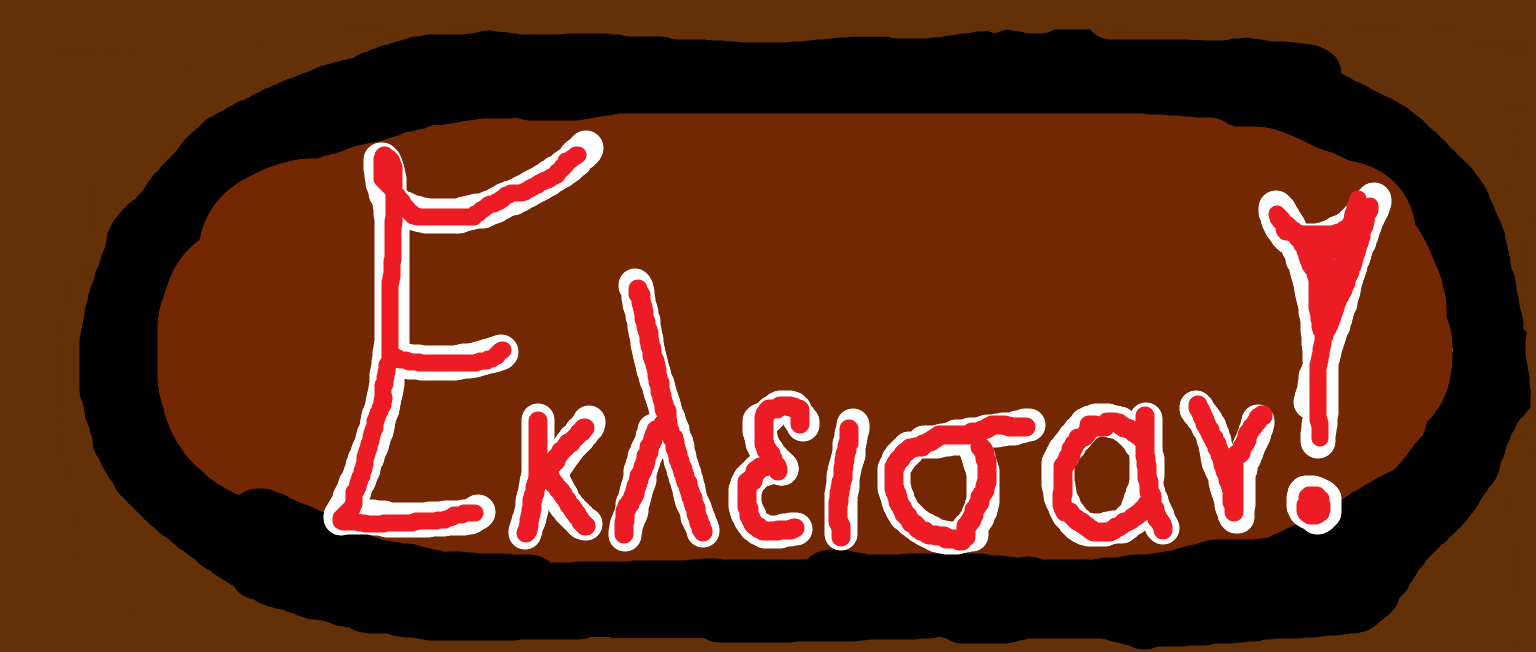
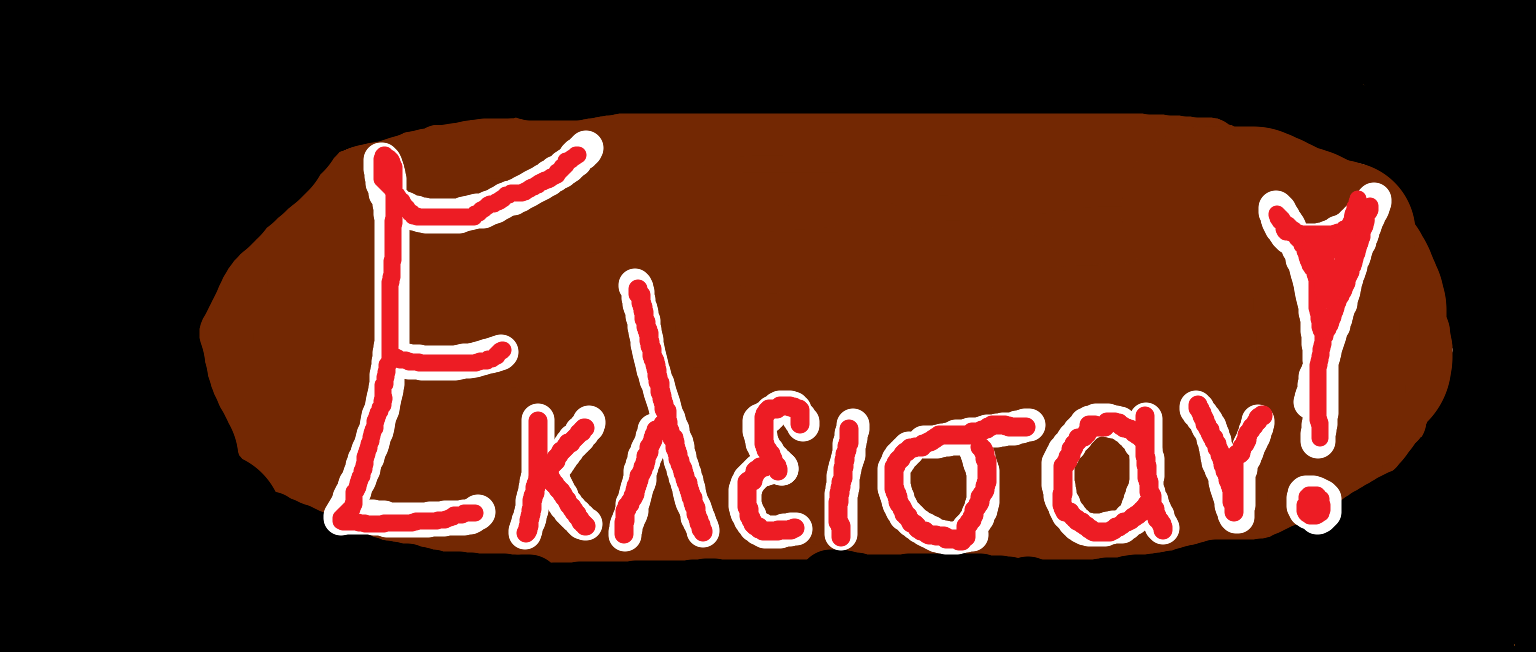
Add files via upload

Changed region(s): [[0.0, 0.0, 1.0, 1.0]]

diff --git a/index.html b/index.html
@@ -86,14 +86,14 @@
 .players{font-family:var(--display);font-weight:700;font-size:27px;text-align:center;
   color:var(--bone);margin:14px 0 2px;
   text-shadow:-2px -2px 0 #000,2px -2px 0 #000,-2px 2px 0 #000,2px 2px 0 #000}
-  .plist2{display:flex;flex-direction:column;gap:6px;margin-top:10px}
-.prow2{display:flex;justify-content:space-between;align-items:center;
-  padding:9px 14px;background:var(--ink);border:4px solid var(--line);border-radius:14px}
-.prow2 span{font-family:var(--display);font-size:19px}
-.prow2 em{font-family:var(--mono);font-size:12px;font-style:normal;color:var(--brass)}
 
 /* επιλεγμένο / ανεπίλεκτο κουμπί-ζωγραφιά */
 .ibtn.dim{opacity:.42}
+
+/* δύο ζωγραφιστά κουμπιά δίπλα-δίπλα, στο ΙΔΙΟ ύψος
+   (οι ζωγραφιές έχουν διαφορετικές αναλογίες, οπότε κλειδώνουμε το ύψος) */
+.row.even{align-items:center;gap:14px}
+.row.even .ibtn img{height:92px;width:auto;margin:0 auto}
 
 /* ζωγραφιστά πλαίσια κειμένου */
 .field{position:relative;margin-top:6px}
@@ -253,8 +253,11 @@ details.notes textarea{min-height:92px;border-style:dashed;background:rgba(199,1
 /* οθόνη «κλείστε τα μάτια» */
 .dark{background:#000;position:fixed;inset:0;display:flex;flex-direction:column;
   align-items:center;justify-content:center;padding:30px;text-align:center;z-index:9}
-.dark p{font-family:var(--display);font-size:30px;color:#5A4632;margin:0 0 36px;line-height:1.3}
+.dark p{font-family:var(--display);font-weight:700;font-size:32px;color:var(--bone);
+  text-shadow:-2px -2px 0 #000,2px -2px 0 #000,-2px 2px 0 #000,2px 2px 0 #000;
+  margin:0 0 34px;line-height:1.25}
 .dark .btn{max-width:280px}
+.dark .ibtn{max-width:250px;margin:0 auto}
 </style>
 
 <div id="app"></div>
@@ -269,7 +272,7 @@ const CFG = {
   MAX_PLAYERS: 15,
   DEFAULT_PLAYERS: 5,
   DEFAULT_PENALTY: "ποινη",
-  TIME_OPTIONS: [120, 180, 240],   // χρονος λογου, σε δευτερολεπτα
+  TIME_OPTIONS: [120, 180, 300],   // χρονος λογου, σε δευτερολεπτα
   DEFAULT_TIME: 120,
   UNLOCK_2V2: 5,                   // από πόσους παίκτες ξεκλειδώνει το 2v2
   UNLOCK_3V3: 7,                   // από πόσους παίκτες ξεκλειδώνει το 3v3
@@ -282,7 +285,7 @@ const CFG = {
 const IMG = "img/";
 const DIGIT = ["zero","one","two","three","four","five","six","seven","eight","nine"];
 /* ζωγραφιές για τον χρόνο λόγου· όποιο λείπει βγαίνει ως κείμενο */
-const TIME_IMG = { 120:"2lepta.png", 180:"3lepta.png" };
+const TIME_IMG = { 120:"2lepta.png", 180:"3lepta.png", 300:"5lepta.png" };
 
 /* === [9] ΑΠΟΘΗΚΕΥΣΗ ========================================
    Δοκιμάζει localStorage. Αν δεν επιτρέπεται (π.χ. σε preview),
@@ -306,7 +309,6 @@ const Store = (() => {
 
 /* === [10] ΚΑΤΑΣΤΑΣΗ ΠΑΙΧΝΙΔΙΟΥ ============================= */
 const S = {
-  counts: [],        // πόσες έγραψε ο καθένας, χωρίς να ξέρουμε ποιες
   screen: "count",
   playerCount: CFG.DEFAULT_PLAYERS,
   players: [],       // γεμίζει καθώς συστήνονται, ένας ένας
@@ -412,7 +414,7 @@ V.count = () => {
     </div>
 
     <label>Τι πληρωνει ο χαμενος</label>
-        ${penaltyField()}
+    ${penaltyField()}
 
     <label>Χρονος λογου</label>
     <div class="row">${times}</div>
@@ -485,24 +487,16 @@ V.more = () => {
 };
 
 /* ΟΘΟΝΗ: όλοι συστήθηκαν ------------------------------------ */
-V.lastCall = () => {
-  const list = S.players.map((p,i) => `
-    <div class="prow2">
-      <span>${esc(p)}</span>
-      <em>${S.counts[i]} ${S.counts[i]===1?"αποψη":"αποψεις"}</em>
-    </div>`).join("");
-
-  return `
-    <p class="eyebrow">Η δικογραφια &middot; <b>${S.opinions.length} αποψεις</b></p>
-    <h2>Συστηθηκατε ολοι</h2>
-    <p class="lede">Θελει κανεις να προσθεσει κατι πριν ξεκινησουμε; Το κινητο γυρναει ελευθερα, μενει ανωνυμο.</p>
-    <div class="plist2">${list}</div>
-    <div class="fill"></div>
-    <div class="row">
-      ${ibtn("orthioi.png",'data-begin="1"')}
-      ${ibtn("allhmia.png",'data-extra="lastCall"')}
-    </div>`;
-};
+V.lastCall = () => `
+  <p class="eyebrow">Η δικογραφια &middot; <b>${S.opinions.length} αποψεις</b></p>
+  <h2>Συστηθηκατε ολοι</h2>
+  <p class="lede">Θελει κανεις να προσθεσει κατι πριν ξεκινησουμε; Το κινητο γυρναει ελευθερα, μενει ανωνυμο.</p>
+  <div class="roster">${S.players.map(p=>`<span class="chip">${esc(p)}</span>`).join("")}</div>
+  <div class="fill"></div>
+  <div class="row even">
+    ${ibtn("orthioi.png",'data-begin="1"')}
+    ${ibtn("allhmia.png",'data-extra="lastCall"')}
+  </div>`;
 
 /* ΟΘΟΝΗ: ανώνυμη προσθήκη άποψης ---------------------------- */
 V.extra = () => `
@@ -548,7 +542,7 @@ V.hearing = () => {
 
   let actions;
   if (done < all){
-    actions = `<button class="btn" disabled>Μετρα ολους &middot; ${done}/${all}</button>`;
+    actions = `<p class="mini">Μετρα ολους &middot; ${done}/${all}</p>`;
   } else if (!split){
     actions = ibtn("omofwnia.png",'data-unanimous="1"');
   } else {
@@ -600,7 +594,7 @@ V.select = () => {
 
     <div class="fill"></div>
     ${ready ? ibtn("etoimoi.png",'data-go-contra="1"')
-            : `<button class="btn" disabled>Διαλεξε και τις δυο πλευρες</button>`}
+            : `<p class="mini">Διαλεξε ${n} απο καθε πλευρα</p>`}
     ${ibtn("akyro.png",'data-go="hearing"')}`;
 };
 
@@ -893,14 +887,13 @@ app.addEventListener("click", e => {
     const op = app.querySelector("#op").value.trim();
     if (!nm || !op) return;
     S.players.push(nm); addOpinion(op); S.mine = 1;
-    S.players.push(nm); S.counts.push(1); addOpinion(op); S.mine = 1;
     return go("more");
   }
   if (d.addOp !== undefined){
     const op = app.querySelector("#op").value.trim();
     if (!op) return;
     addOpinion(op);
-    if (S.screen === "more"){ S.mine++; S.counts[S.counts.length-1]++; return render(); }
+    if (S.screen === "more"){ S.mine++; return render(); }
     if (S.writeReturn === "round"){ stopTimer(); nextJudge(); startRound(); return render(); }
     return go(S.writeReturn);
   }
